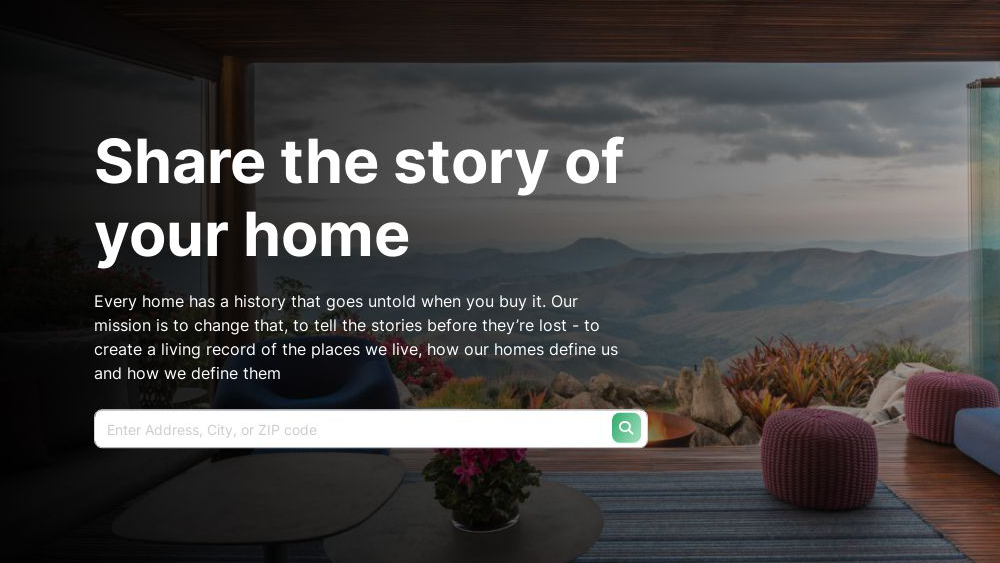
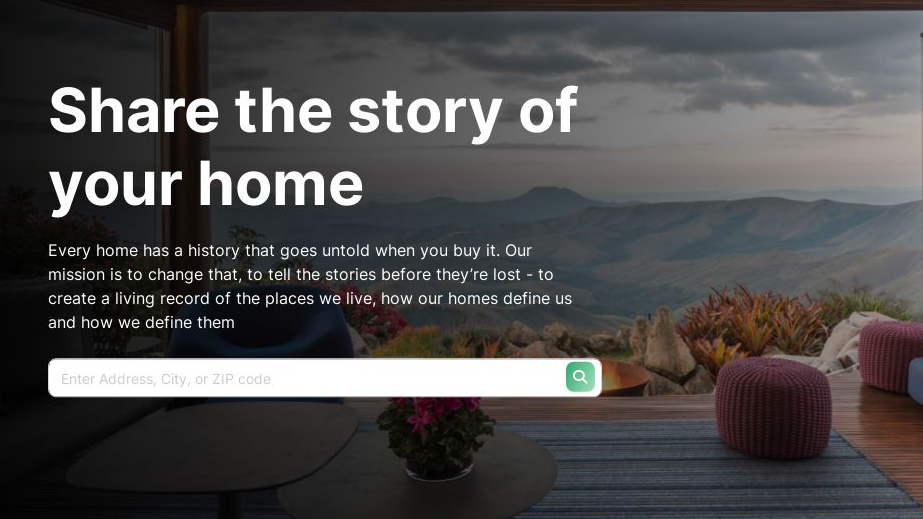
sdf

diff --git a/src/constants/index.ts b/src/constants/index.ts
@@ -164,10 +164,10 @@ export const Project_Data: ProjectProps[] = [
     id: 10,
     title: "Homestalgia",
     description: "Every home has a history that goes untold when you buy it. Our mission is to change that, to tell the stories before they’re lost - to create a living record of the places we live, how our homes define us and how we define them.",
-    imgUrl: "/images/projects/homestalgia.png",
+    imgUrl: "/images/projects/homestalgia2.png",
     tag: ["All","SaaS", "Local"],
     gitUrl: "https://www.linkedin.com/in/chasehoyt/",
-    previewUrl: "https://homestalgia.com/",
+    previewUrl: "https://homestalgia2.com/",
     techStack: ["Nextjs", "MongoDB", "Tailwind CSS", "TypeScript", "Authjs"],
     challengesFaced: ["Challenge 1", "Challenge 2"],
     lessonsLearned: ["Lesson 1", "Lesson 2"],
@@ -262,7 +262,7 @@ export const Project_Data: ProjectProps[] = [
     id: 17,
     title: "25care",
     description: "Our platform brings all the services right to your place. This saves time and hassle searching for and booking different companies and service providers.",
-    imgUrl: "/images/projects/25care.png",
+    imgUrl: "/images/projects/25care2.png",
     tag: ["All","Local", "Delivery"],
     gitUrl: "https://www.linkedin.com/in/andriy-zahaiko/",
     previewUrl: "https://25care.com/",
@@ -290,7 +290,7 @@ export const Project_Data: ProjectProps[] = [
     id: 19,
     title: "Ancestry Host",
     description: "The open-source ancestry.",
-    imgUrl: "/images/projects/ancestry.png",
+    imgUrl: "/images/projects/ancestry2.png",
     tag: ["All","SaaS"],
     gitUrl: "",
     previewUrl: "https://ancestry.host",
@@ -302,34 +302,6 @@ export const Project_Data: ProjectProps[] = [
   },
   {
     id: 20,
-    title: "WorkDojos",
-    description: "Build any business with free and open-source technology.",
-    imgUrl: "/images/projects/dojos.png",
-    tag: ["All","SaaS"],
-    gitUrl: "",
-    previewUrl: "https://workdojos.com",
-    techStack: ["Python", "Streamlit", "Openai", "gtts"],
-    challengesFaced: ["Challenge 1", "Challenge 2"],
-    lessonsLearned: ["Lesson 1", "Lesson 2"],
-    contributionType: "Team",
-    duration: "2 years",
-  },
-  { 
-    id: 21,
-    title: "BFFL.ai",
-    description: "Where AI goes to meet humanity.",
-    imgUrl: "/images/projects/bffl.png",
-    tag: ["All","AI"],
-    gitUrl: "https://www.linkedin.com/in/jeffhampson/",
-    previewUrl: "https://bffl.ai/",
-    techStack: ["React", "Node.js", "Express", "Gemini AI","Tailwind CSS"],
-    challengesFaced: ["Challenge 1", "Challenge 2"],
-    lessonsLearned: ["Lesson 1", "Lesson 2"],
-    contributionType: "Solo",
-    duration: "3 months",
-  },
-  {
-    id: 22,
     title: "FaastX",
     description: "Our company offers a frugal alternative to traditional apps like Uber eats, designed for local businesses. Our service provides a low-cost digital focusing on autonomy and fairness, we empower local businesses, especially in rural areas, to succeed in the digital economy.",
     imgUrl: "/images/projects/faastx.png",
@@ -342,6 +314,35 @@ export const Project_Data: ProjectProps[] = [
     contributionType: "Solo",
     duration: "4 years"
   }
+  {
+    id: 21,
+    title: "WorkDojos",
+    description: "Build any business with free and open-source technology.",
+    imgUrl: "/images/projects/dojos2.png",
+    tag: ["All","SaaS"],
+    gitUrl: "",
+    previewUrl: "https://workdojos.com",
+    techStack: ["Python", "Streamlit", "Openai", "gtts"],
+    challengesFaced: ["Challenge 1", "Challenge 2"],
+    lessonsLearned: ["Lesson 1", "Lesson 2"],
+    contributionType: "Team",
+    duration: "2 years",
+  },
+  { 
+    id: 22,
+    title: "BFFL.ai",
+    description: "Where AI goes to meet humanity.",
+    imgUrl: "/images/projects/bffl2.png",
+    tag: ["All","AI"],
+    gitUrl: "https://www.linkedin.com/in/jeffhampson/",
+    previewUrl: "https://bffl.ai/",
+    techStack: ["React", "Node.js", "Express", "Gemini AI","Tailwind CSS"],
+    challengesFaced: ["Challenge 1", "Challenge 2"],
+    lessonsLearned: ["Lesson 1", "Lesson 2"],
+    contributionType: "Solo",
+    duration: "3 months",
+  },
+
 
   // {
   //   id: 15,
